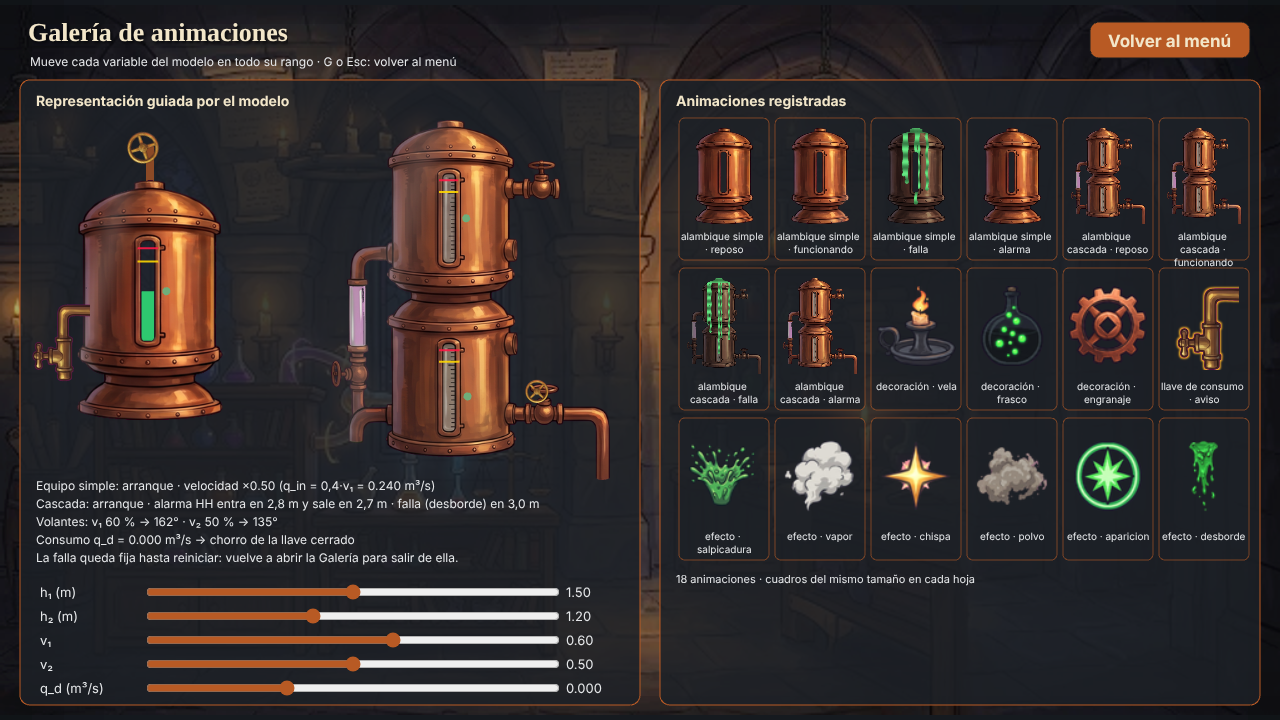
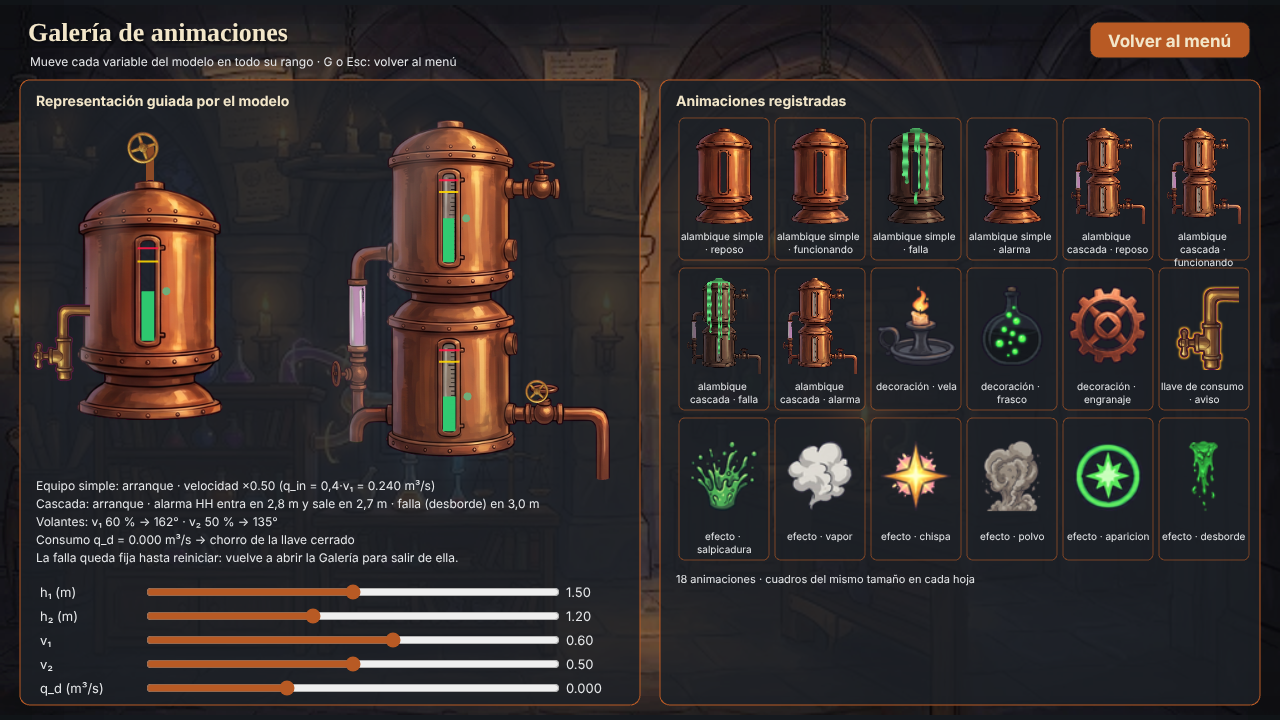
Revisión visual del día 2: planta sin elementos confusos
- Quita los engranajes flotantes y oscurece el fondo pintado (ambiente 42-48 %)
- Nivel 2: el chorro de consumo cae en un frasco bajo la llave
- Nivel 3: tubería de intercambio separada de la salida de v2 y entrada de v1 desde la pared
- Galería: líquido visible en los visores de la cascada; menú: texto de controles legible

Claude-Session: https://claude.ai/code/session_01KKFDw7VU8co1pPhHHVRSe4

Changed region(s): [[0.5312, 0.6111, 0.9062, 0.7333], [0.3438, 0.55, 0.375, 0.6111], [0.3438, 0.3056, 0.375, 0.3667]]

diff --git a/src/juego/Simulacion.js b/src/juego/Simulacion.js
@@ -245,6 +245,7 @@ export class Simulacion extends EscenaBase {
       }
     }
     if (!this.esCascada) this.dibujarFijacionesEntrada();
+    else this.dibujarEntradaCascada();
     this.conSpritesValvula = this.hayPieza('valvula-cuerpo') && this.hayPieza('valvula-volante');
     if (this.conSpritesValvula && !this.esCascada) {
       const puntos = posicionSpritesValvulas(this.nivel.tanques);
@@ -526,7 +527,8 @@ export class Simulacion extends EscenaBase {
       for (const d of DECORACIONES_NIVEL[id] || []) {
         const clave = `deco-${d.deco}`;
         if (!this.anims.exists(clave)) continue;
-        const sprite = this.add.sprite(d.x, d.y, 'piezas', `${clave}-0`).setOrigin(.5, 1).setDisplaySize(d.tam, d.tam).setDepth(d.enMuro ? PROFUNDIDAD.decoraciones : PROFUNDIDAD.decoracionesApoyadas);
+        const sprite = this.add.sprite(d.x, d.y, 'piezas', `${clave}-0`).setOrigin(.5, 1).setDisplaySize(d.tam, d.tam).setDepth(d.enMuro ? PROFUNDIDAD.decoraciones : d.bajoLlave ? -.45 : PROFUNDIDAD.decoracionesApoyadas);
+        if (d.bajoLlave) this.frascoConsumo = sprite;
         sprite.play({ key: clave, startFrame: d.fase || 0 });
         if (d.inverso) sprite.anims.reverse();
         this.decoraciones.push(sprite);
@@ -611,6 +613,11 @@ export class Simulacion extends EscenaBase {
       const etiqueta = L.perturbaciones.llaveEtiqueta;
       this.etiquetaLlave = this.add.text(tank.x - tank.displayWidth / 2 - etiqueta.ancho - 8, this.llaveConsumo.y + cfg.alto / 2 + etiqueta.margenY, '', fuenteInterfaz(9, '#E6E8EA', { fontStyle: 'bold', backgroundColor: 'rgba(28,32,38,.92)', padding: { x: 3, y: 2 }, wordWrap: { width: etiqueta.ancho } })).setDepth(6);
       this.salpiqueLlave = { x: this.puntoBocaLlave.x, y: this.anclajesMesa?.apoyoTanque.y ?? L.mesa.patasY };
+      // El consumo cae dentro del frasco que está bajo la llave (no sobre la mesa).
+      if (this.frascoConsumo) {
+        this.frascoConsumo.setPosition(this.puntoBocaLlave.x, this.salpiqueLlave.y);
+        this.salpiqueLlave.y = this.salpiqueLlave.y - this.frascoConsumo.displayHeight * .82;
+      }
       return;
     }
     if (this.nivel.id === 3 && this.cajaCascada) {
@@ -877,6 +884,22 @@ export class Simulacion extends EscenaBase {
         this.renderBrilloBanda.lineStyle(3, 0x00e676, .65 * restante).strokeRoundedRect(visor.x - 3, y - 3, visor.w + 6, h + 6, 4);
       }
       this.renderBrilloBanda.lineStyle(2, 0x00e676, .55 * restante).strokeRoundedRect(l.hmi.x + 3, l.estado.y - 3, l.estado.ancho - 6, l.estado.alto + 6, 8);
+    }
+  }
+
+  // Nivel 3: la válvula v1 de la cascada recibe la poción por una tubería que viene de la
+  // pared derecha (como la entrada del nivel 1 viene de la pared izquierda).
+  dibujarEntradaCascada() {
+    const caja = this.cajaCascada, L = LAYOUT.simulacion;
+    if (!caja) return;
+    const rueda = L.cascada.ruedas.v1, x = caja.x + rueda.x * caja.w + L.cascada.ruedas.tamano * .55, y = caja.y + rueda.y * caja.h;
+    const P = L.planta, cfg = L.entradaSolo.brida, xPared = P.x + P.ancho - cfg.ancho, g = this.renderEntradaFixtures;
+    dibujarTuberia(g, [{ x, y }, { x: xPared, y }], L.tuberia.ancho);
+    g.fillStyle(0x4a5056, 1).fillRoundedRect(xPared, y - cfg.alto / 2, cfg.ancho, cfg.alto, 3);
+    g.lineStyle(2, 0x1a1b1d, 1).strokeRoundedRect(xPared, y - cfg.alto / 2, cfg.ancho, cfg.alto, 3);
+    for (const xr of [xPared + 5, xPared + cfg.ancho - 5]) for (const yr of [y - cfg.alto / 2 + 6, y + cfg.alto / 2 - 6]) {
+      g.fillStyle(0x1a1b1d).fillCircle(xr, yr, 2.7);
+      g.fillStyle(0xaeb5b8).fillCircle(xr - .5, yr - .5, 1.1);
     }
   }
 

diff --git a/src/juego/niveles/escenario.js b/src/juego/niveles/escenario.js
@@ -19,23 +19,24 @@ export const MATRIZ_LABORATORIO = [muro(0), muro(5), piso];
 export const ORIGEN_BALDOSAS = { x: 16, y: 650 - 2 * TAM_BALDOSA };
 
 // Decoraciones animadas (4 cuadros de 64x64 en el atlas 'piezas'); (x, y) = punto de apoyo
-// abajo al centro; enMuro = colgada en la pared (detrás de todo). Están puestas en huecos de cada nivel para no tapar la planta ni la HMI.
-const ENGRANAJES = [
-  { deco: 'engranaje', x: 576, y: 244, tam: 56, fase: 0, enMuro: true },
-  { deco: 'engranaje', x: 614, y: 272, tam: 40, fase: 2, inverso: true, enMuro: true },
-];
+// abajo al centro. Solo objetos que tienen sentido en un laboratorio: velas encendidas y un
+// frasco. No se ponen cerca de las tuberías para que no parezcan parte de la planta. Los
+// engranajes quedan en el atlas y en la Galería, pero no en la planta (flotaban sin mecanismo).
+// bajoLlave: en el nivel 2 el frasco recibe el chorro de la llave de consumo (q_d).
 export const DECORACIONES_NIVEL = {
-  1: [{ deco: 'vela', x: 176, y: 519, tam: 46 }, { deco: 'frasco', x: 478, y: 519, tam: 50 }, ...ENGRANAJES],
-  2: [{ deco: 'vela', x: 72, y: 650, tam: 46 }, { deco: 'frasco', x: 478, y: 519, tam: 50 }, ...ENGRANAJES],
-  3: [{ deco: 'vela', x: 172, y: 519, tam: 46 }, { deco: 'frasco', x: 72, y: 650, tam: 50 }, ...ENGRANAJES],
+  1: [{ deco: 'vela', x: 168, y: 519, tam: 44 }, { deco: 'frasco', x: 66, y: 650, tam: 46 }],
+  2: [{ deco: 'vela', x: 66, y: 650, tam: 44 }, { deco: 'frasco', x: 217, y: 519, tam: 48, bajoLlave: true }],
+  3: [{ deco: 'vela', x: 168, y: 519, tam: 44 }],
 };
 
 // Ambiente: capa de color semitransparente según la zona del laboratorio y partículas
 // lentas de polvo (máximo 30).
 export const AMBIENTE_NIVEL = {
-  1: { color: 0x3a2410, alfa: 0.14, nombre: 'taller a la luz de las velas' },
-  2: { color: 0x2a2614, alfa: 0.16, nombre: 'bodega del caldero real' },
-  3: { color: 0x1c1430, alfa: 0.20, nombre: 'torre de noche' },
+  // El fondo pintado tiene su propio alambique, frascos y estantes: se oscurece lo suficiente
+  // para que no se confundan con la planta del modelo.
+  1: { color: 0x1a1008, alfa: 0.42, nombre: 'taller a la luz de las velas' },
+  2: { color: 0x14120a, alfa: 0.44, nombre: 'bodega del caldero real' },
+  3: { color: 0x0e0a1a, alfa: 0.48, nombre: 'torre de noche' },
 };
 export const POLVO_MAXIMO = 30;
 

diff --git a/src/juego/Menu.js b/src/juego/Menu.js
@@ -163,7 +163,7 @@ export class Menu extends EscenaBase {
     });
     this.add.text(M.controles.x + M.controles.ancho / 2, M.controles.y + M.controles.alto / 2,
       'Controles: derecha → entrada · pellizco izquierdo → salida v2 · teclado / gamepad · P parámetros · D depuración · F terminar · M / Select silencio · G galería',
-      fuenteInterfaz(14, '#E6E8EA', { align: 'center', lineSpacing: 4 })).setOrigin(.5).setWordWrapWidth(M.controles.ancho - M.margenControl.horizontal).setAlpha(1);
+      fuenteInterfaz(14, '#E6E8EA', { align: 'center', lineSpacing: 4 })).setOrigin(.5).setWordWrapWidth(M.controles.ancho - M.margenControl.horizontal).setAlpha(1).setDepth(5);
     // Tecla G: escena Galería (no se activa con el panel Configurar controles abierto).
     this.input.keyboard?.on('keydown-G', () => {
       if (document.querySelector('[data-panel-controles]')) return;

diff --git a/src/hmi/layout.js b/src/hmi/layout.js
@@ -109,7 +109,7 @@ export const LAYOUT = Object.freeze({
     perturbaciones: {
       llaveConsumo: { alto: 120, alturaUnionRel: .50, bordeIzquierdoRel: 23 / 215, insetUnion: 6, chorroMaximo: 7 },
       llaveEtiqueta: { ancho: 145, margenY: 4 },
-      intercambio: { separacionSalidaV2: 40, bocaXRel: .62, entradaBocaY: 8, anchoTubo: 7, velocidad: 1.8, etiqueta: { x: 28, y: 570, ancho: 185 } },
+      intercambio: { separacionSalidaV2: 62, bocaXRel: .26, entradaBocaY: 8, anchoTubo: 7, velocidad: 1.8, etiqueta: { x: 290, y: 604, ancho: 185 } },
     },
     tuberia: { ancho: 7, borde: 2, brillo: 2, chorroMinimo: 2, chorroMaximo: 8 },
     soporte: { x: 65, y: 360, ancho: 220, baseY: 600 },

diff --git a/test/escenario-rendimiento.test.js b/test/escenario-rendimiento.test.js
@@ -15,7 +15,7 @@ test('escenario: matriz de baldosas válida para la hoja 8x4 y decoraciones por 
   assert.equal(MATRIZ_LABORATORIO[0].length * 32, 640, 'cubre el ancho de la planta');
   for (const id of [1, 2, 3]) {
     const decos = DECORACIONES_NIVEL[id];
-    assert.ok(decos.length >= 3);
+    assert.ok(decos.length >= 1 && decos.some((d) => d.deco === 'vela'), `nivel ${id}: al menos una decoración animada`);
     for (const d of decos) assert.ok(d.x - d.tam / 2 >= 16 && d.x + d.tam / 2 <= 645, `nivel ${id}: ${d.deco} dentro de la planta, sin tapar la HMI`);
   }
   assert.ok(POLVO_MAXIMO <= 30);

diff --git a/src/juego/Galeria.js b/src/juego/Galeria.js
@@ -41,7 +41,7 @@ export class Galeria extends EscenaBase {
   // ---------- vista previa guiada por las variables ----------
   crearVistaPrevia() {
     this.add.text(36, 92, 'Representación guiada por el modelo', fuenteInterfaz(14, '#F2E6C9', { fontStyle: 'bold' }));
-    this.liquido = this.add.graphics().setDepth(1);
+    this.liquido = this.add.graphics().setDepth(2.5); // encima del sprite: los visores de la cascada son de vidrio opaco
     this.marcas = this.add.graphics().setDepth(3);
     // Alambique simple (niveles 1 y 2)
     const s = { x: 150, y: 300, w: 172, h: 240 };

diff --git a/PROMPTS.md b/PROMPTS.md
@@ -87,6 +87,8 @@ Para cada uno se indica si funcionó, si hubo que corregirlo y qué errores de l
 | 80 | Día 2, 5.6 e) | Codex | Retroalimentación con sistemas de segundo orden (resorteVisual) | Funcionó |
 | 81 | Día 2, 5.6 f) | Codex | Música, efectos sonoros y sonificación | Funcionó |
 | 82 | Día 2, 5.5 a 5.7 | Claude Code | Continuar las fases pendientes del día 2 sobre el simulador desplegado | Funcionó |
+| 83 | Día 2, 5.8 | Claude Code + Antigravity | Build, ZIP medido y guion del video | Funcionó |
+| 84 | Día 2, 5.7 b) paso 12 | Claude Code | Revisión visual de los 3 niveles, la Galería y el menú; corrección de lo que no tenía sentido | Funcionó |
 ---
 
 ## 1. Skill `disenador-juegos-simulacion` (5.2)
@@ -1656,3 +1658,23 @@ Sí, arranca con las pruebas, el build, el ZIP y el guion con Antigravity. Dos c
 - **ZIP:** `Grupo1_SimJam_Modelado_Dia2.zip` con el contenido de `dist/` (85 archivos, 7,60 MB; `*.zip` está en `.gitignore`). El primer intento con `Compress-Archive` de PowerShell 5.1 guardaba las rutas con `\`, que en un servidor Linux pueden aplanar las carpetas; se rehízo con `tar -a` (rutas con `/`) y se comprobó que al extraerlo queda idéntico a `dist/`.
 - **Guion del video:** Antigravity (Gemini, modo de solo lectura) escribió un borrador desde `README.md`, `docs/pruebas_dia2.md` y este archivo. Se comprobó contra el código (teclas G y F, deslizadores de la Galería, nivel 2 con perturbación de 0,08 entre 40 y 80 s, pellizco para v₂) y se corrigió: los estados de alarma y desborde se muestran con la Galería, la perturbación del nivel 2 se graba aparte, y se quitaron los BPM, que no están en el código. Resultado en `docs/guion_video_dia2.md`.
 - Se agregó `CLAUDE.md` (contexto del proyecto para Claude Code).
+
+---
+
+## 84. Revisión visual y correcciones (5.7 b, paso 12)
+
+```
+Haz las pruebas y mira bien toda la parte visual, porque yo veo cosas que no tienen sentido.
+```
+
+Se recorrieron el menú, los 3 niveles (antes y durante la perturbación), la Galería y la pantalla final con capturas ampliadas. Hallazgos y correcciones:
+
+- **Engranajes flotando en la pared** sin ningún mecanismo: se quitaron de la planta (siguen en el atlas y en la Galería).
+- **El fondo pintado competía con la planta:** tiene su propio alambique con un tubo curvo azul detrás del tanque que parecía un chorro, además de frascos y estantes. La capa de ambiente pasó de 14–20 % a 42–48 % de opacidad.
+- **Frasco junto a la tubería de salida** en los niveles 1 y 2: parecía una pieza de la planta. En el nivel 1 pasó al piso; en el nivel 2 ahora está bajo la llave de consumo y el chorro de q_d cae dentro de él (antes caía sobre la mesa).
+- **Nivel 3, tubería de intercambio invisible:** iba casi por el mismo recorrido que la salida de v₂ y se confundía con ella. Ahora sale de la base del alambique 2 y entra por el lado izquierdo del caldero, y su etiqueta quedó junto a ella.
+- **Nivel 3, válvula v₁ sin tubería:** la entrada no venía de ningún lado. Se dibujó la tubería desde la pared derecha con su brida, como la entrada del nivel 1 viene de la pared izquierda.
+- **Galería:** el líquido de los visores de la cascada no se veía porque quedaba detrás del vidrio del sprite; ahora se dibuja encima.
+- **Menú:** el texto de controles quedaba casi invisible detrás del recuadro; se puso al frente.
+
+Se actualizaron las capturas de `docs/capturas/despues/`. Pruebas: 60/60.

diff --git a/CLAUDE.md b/CLAUDE.md
@@ -7,7 +7,7 @@ Simulador N.º 1 "Operador de tanques" del laboratorio SimJam de Modelado y Simu
 - Mantener las posiciones de la planta y la HMI del día 1 (`src/hmi/layout.js`); solo cambia el arte.
 - Phaser 3.87 y MediaPipe tasks-vision 0.10.14 se cargan por CDN; nada de `import` de Phaser; rutas relativas y `base: './'`.
 - No abrir los CSV con Excel (la configuración regional los daña).
-- Un commit por etapa; registrar los prompts en `PROMPTS.md` (la última entrada es la 83).
+- Un commit por etapa; registrar los prompts en `PROMPTS.md` (la última entrada es la 84).
 - Comprobar siempre con `npm test` (60 pruebas) y `npm run build`.
 
 ## Modelo
